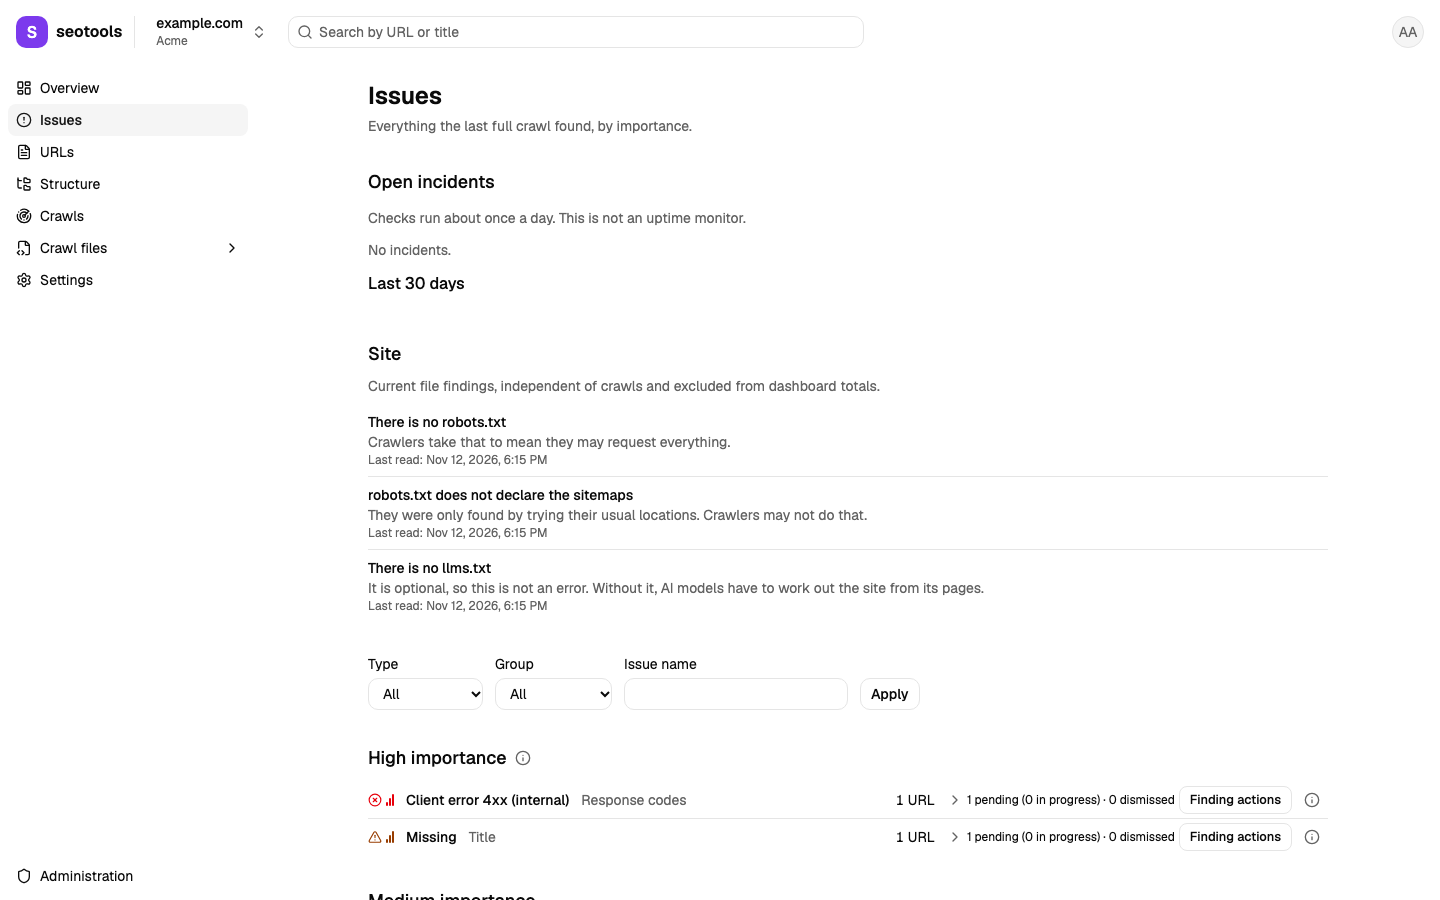
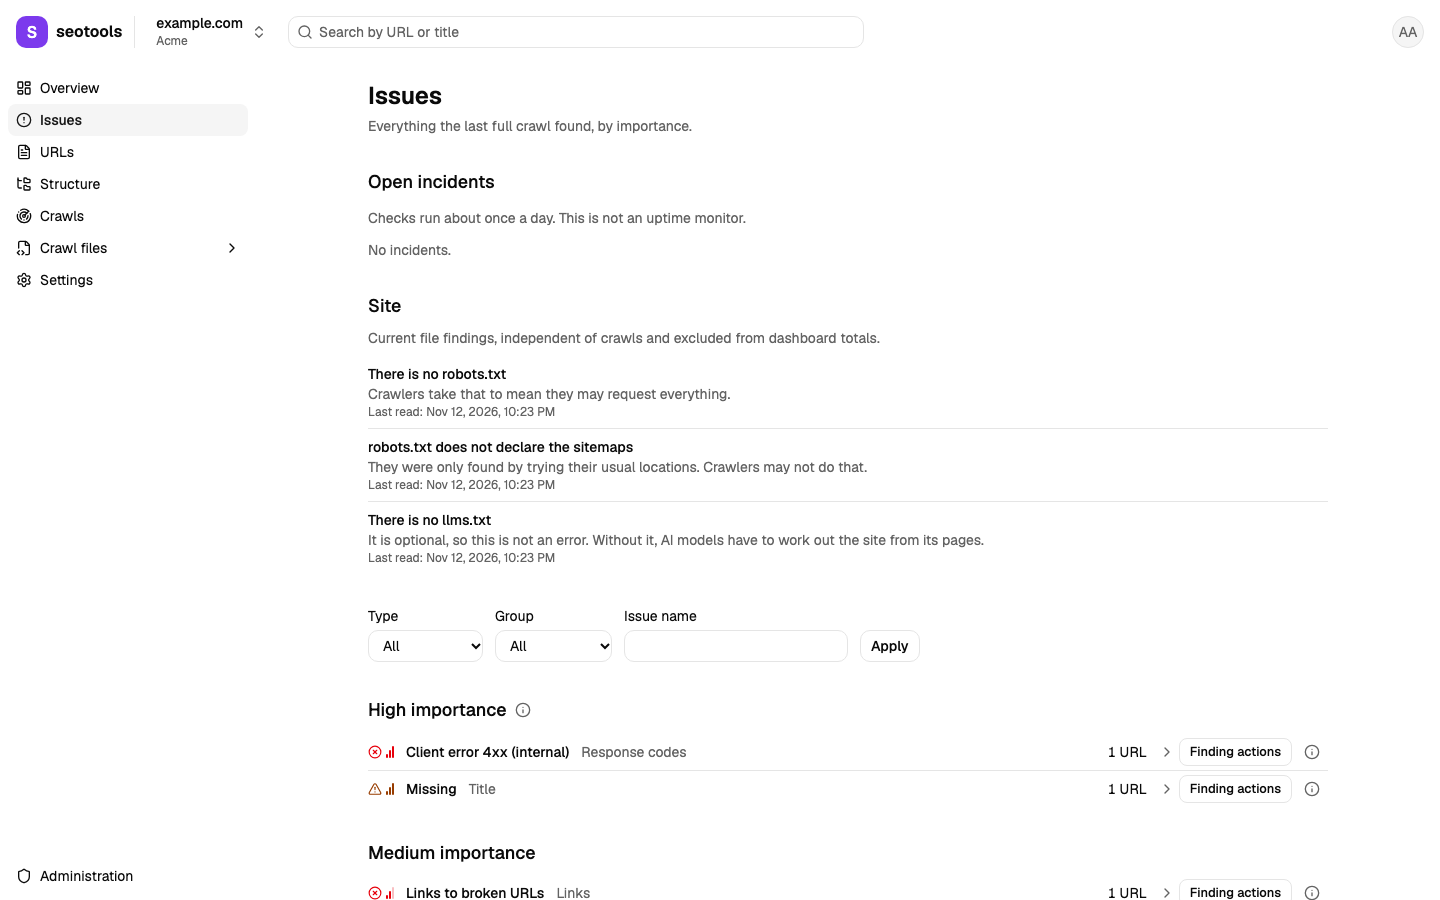
fix(web): quieter Issues counts, no empty incident history, orphan finding explains JavaScript links

diff --git a/apps/web/app/(protected)/domains/[host]/issues/page.tsx b/apps/web/app/(protected)/domains/[host]/issues/page.tsx
@@ -268,13 +268,24 @@ export default async function IssuesPage({
                   <IssueRows
                     extra={(issue, pages) => (
                       <>
-                        <span className="text-xs">
-                          {decisions('counts', {
-                            pending: pages,
-                            progress: progress.get(issue) ?? 0,
-                            dismissed: dismissedCounts.find((r) => r.issue === issue)?.pages ?? 0,
-                          })}
-                        </span>
+                        {(() => {
+                          const inProgress = progress.get(issue) ?? 0
+                          const dismissed =
+                            dismissedCounts.find((r) => r.issue === issue)?.pages ?? 0
+                          const shown = [
+                            ...(inProgress > 0
+                              ? [decisions('inProgressCount', { count: inProgress })]
+                              : []),
+                            ...(dismissed > 0
+                              ? [decisions('dismissedCount', { count: dismissed })]
+                              : []),
+                          ]
+                          return shown.length > 0 ? (
+                            <span className="text-xs text-muted-foreground">
+                              {shown.join(' · ')}
+                            </span>
+                          ) : null
+                        })()}
                         <FindingStateActions host={host} issue={issue} />
                         {(latest.pagesAudit?.audited ?? 0) >= 20 &&
                           pages >= (latest.pagesAudit?.audited ?? 0) * 0.9 && (

diff --git a/apps/web/components/incidents.tsx b/apps/web/components/incidents.tsx
@@ -51,7 +51,7 @@ export async function Incidents({
       ) : (
         <p className="text-sm text-muted-foreground">{t('none')}</p>
       )}
-      {history && (
+      {history && history.length > 0 && (
         <>
           <h3 className="font-medium">{t('history')}</h3>
           <ul className="grid gap-2">{rows(history)}</ul>

diff --git a/CHANGELOG.md b/CHANGELOG.md
@@ -70,6 +70,9 @@ which moves the entries of `[Unreleased]` into the new version.
   crawl's preview one tab away), and if the URL no longer answers as a page it says how it answered
   instead. Older crawls and rechecks made before this are shown as they were.
 
+- The orphan URL finding says that the crawl reads the HTML the server sends, so a link that only
+  appears after JavaScript runs (a menu or footer built in the browser) is not seen.
+
 ### Security
 
 - Next.js 16.4.5 and other dependency updates with upstream security fixes.
